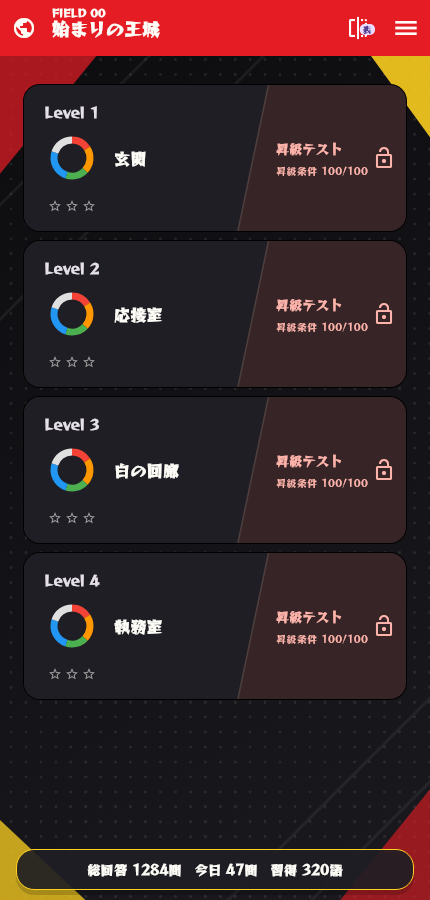
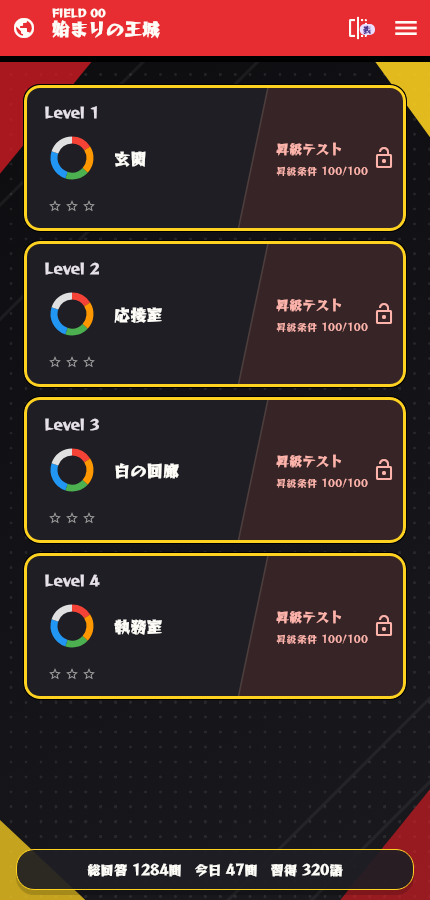
Add comic action Alice theme preview

diff --git a/comic-action-preview-20260927/index.html b/comic-action-preview-20260927/index.html
@@ -6,30 +6,29 @@
 <title>Alice 漫画・アクション着せ替え</title>
 <style>
 *{box-sizing:border-box}
-body{margin:0;background:#0f0f12;color:#fff;font-family:-apple-system,BlinkMacSystemFont,"Segoe UI",sans-serif}
-header{max-width:1080px;margin:auto;padding:24px 18px 10px}
-h1{margin:0 0 8px;font-size:24px}
-p{margin:0;color:#c6c6c8;line-height:1.65}
-.grid{max-width:1080px;margin:auto;padding:16px 18px 48px;display:grid;grid-template-columns:repeat(2,minmax(0,1fr));gap:18px}
-.card{background:#19191f;border:2px solid #ffd21f;border-radius:16px;padding:12px}
-.card h2{margin:2px 2px 10px;font-size:17px}
-.card img{display:block;width:100%;height:auto;border-radius:10px;background:#111}
-.badge{display:inline-block;background:#e51c23;color:#fff;padding:4px 9px;border-radius:999px;font-size:12px;margin-bottom:10px}
-@media(max-width:720px){.grid{grid-template-columns:1fr}h1{font-size:21px}}
+body{margin:0;background:#0d0d10;color:#fff;font-family:-apple-system,BlinkMacSystemFont,"Segoe UI",sans-serif}
+header{max-width:1180px;margin:auto;padding:24px 18px 10px}
+h1{margin:0 0 8px;font-size:26px}
+p{margin:0;color:#c7c7c7;line-height:1.6}
+.grid{max-width:1180px;margin:auto;padding:18px 18px 48px;display:grid;grid-template-columns:repeat(2,minmax(0,1fr));gap:18px}
+.card{background:#18181d;border:3px solid #ffd21f;border-radius:10px;padding:12px;box-shadow:8px 8px 0 #000}
+.card h2{margin:0 0 10px;font-size:18px;color:#ffd21f}
+.card img{display:block;width:100%;height:auto;background:#fff;border:2px solid #111}
+.note{margin-top:10px;color:#bdbdbd;font-size:13px}
+@media(max-width:760px){.grid{grid-template-columns:1fr}h1{font-size:22px}}
 </style>
 </head>
 <body>
 <header>
-<span class="badge">Flutter実描画</span>
 <h1>Alice 漫画・アクション着せ替え</h1>
-<p>Rampart Oneを英字タイトル、Reggae Oneを日本語・学習UIに使用。黒・赤・黄、ハーフトーン、集中線、太い枠を組み合わせた第1案です。</p>
+<p>Rampart One＋Reggae Oneを軸に、黒・赤・黄、網点、集中線、太枠、コミック調の星演出を組み合わせた第1案です。Flutter実描画。</p>
 </header>
 <main class="grid">
-<section class="card"><h2>タイトル画面</h2><img src="comic_action_title.png" alt="タイトル画面"></section>
-<section class="card"><h2>LEVEL一覧</h2><img src="comic_action_level.png" alt="LEVEL一覧"></section>
-<section class="card"><h2>問題画面</h2><img src="comic_action_quiz.png" alt="問題画面"></section>
-<section class="card"><h2>結果画面</h2><img src="comic_action_result.png" alt="結果画面"></section>
-<section class="card"><h2>ワールドマップ</h2><img src="comic_action_world_map.png" alt="ワールドマップ"></section>
+<section class="card"><h2>1. タイトル</h2><img src="comic_action_title.png" alt="タイトル"></section>
+<section class="card"><h2>2. LEVEL一覧</h2><img src="comic_action_level.png" alt="LEVEL一覧"><div class="note">星リング背面にコミックバーストを追加。</div></section>
+<section class="card"><h2>3. 問題画面</h2><img src="comic_action_quiz.png" alt="問題画面"><div class="note">4択は太枠・低い角丸・強い影。</div></section>
+<section class="card"><h2>4. 結果画面</h2><img src="comic_action_result.png" alt="結果画面"></section>
+<section class="card"><h2>5. ワールドマップ</h2><img src="comic_action_world_map.png" alt="ワールドマップ"></section>
 </main>
 </body>
 </html>
